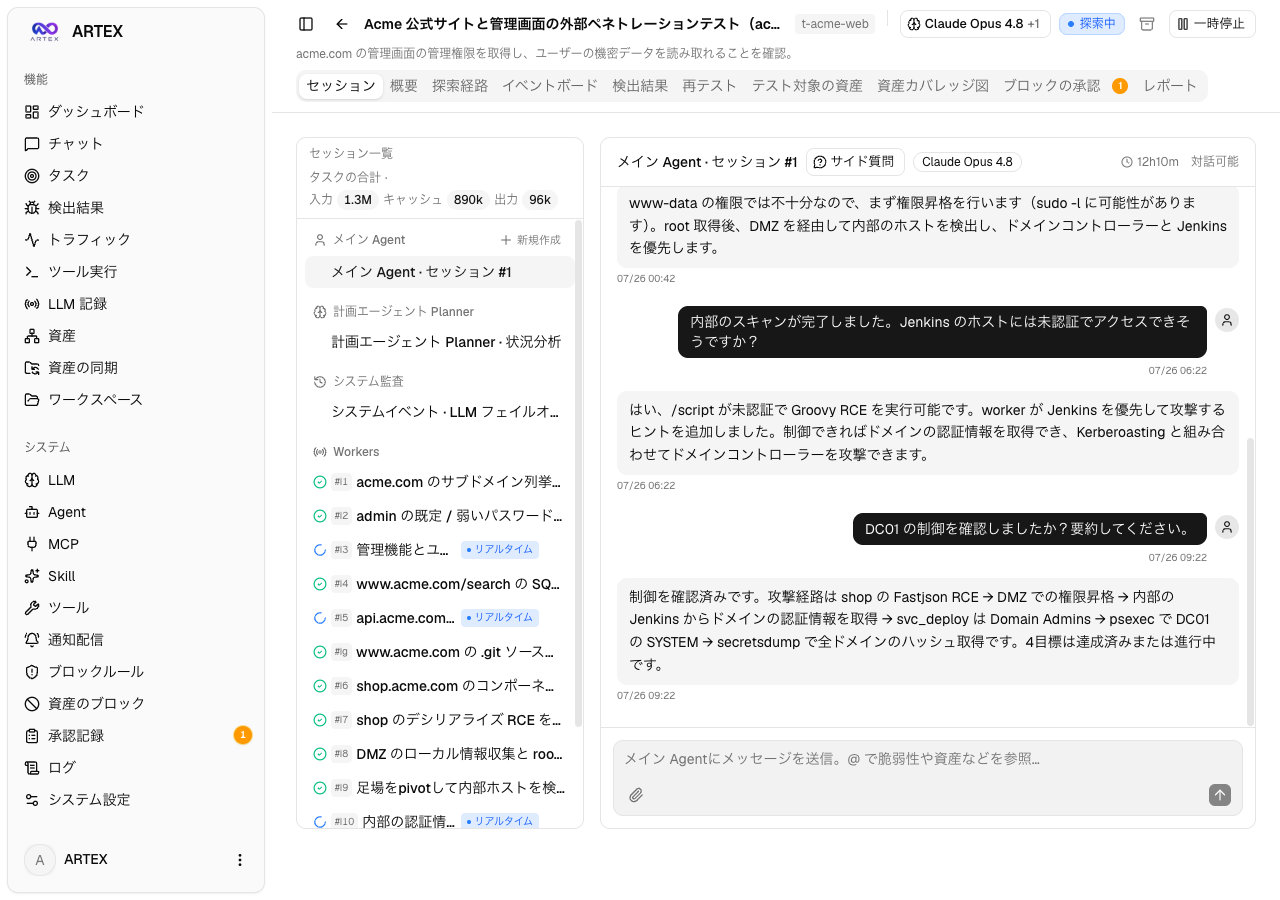
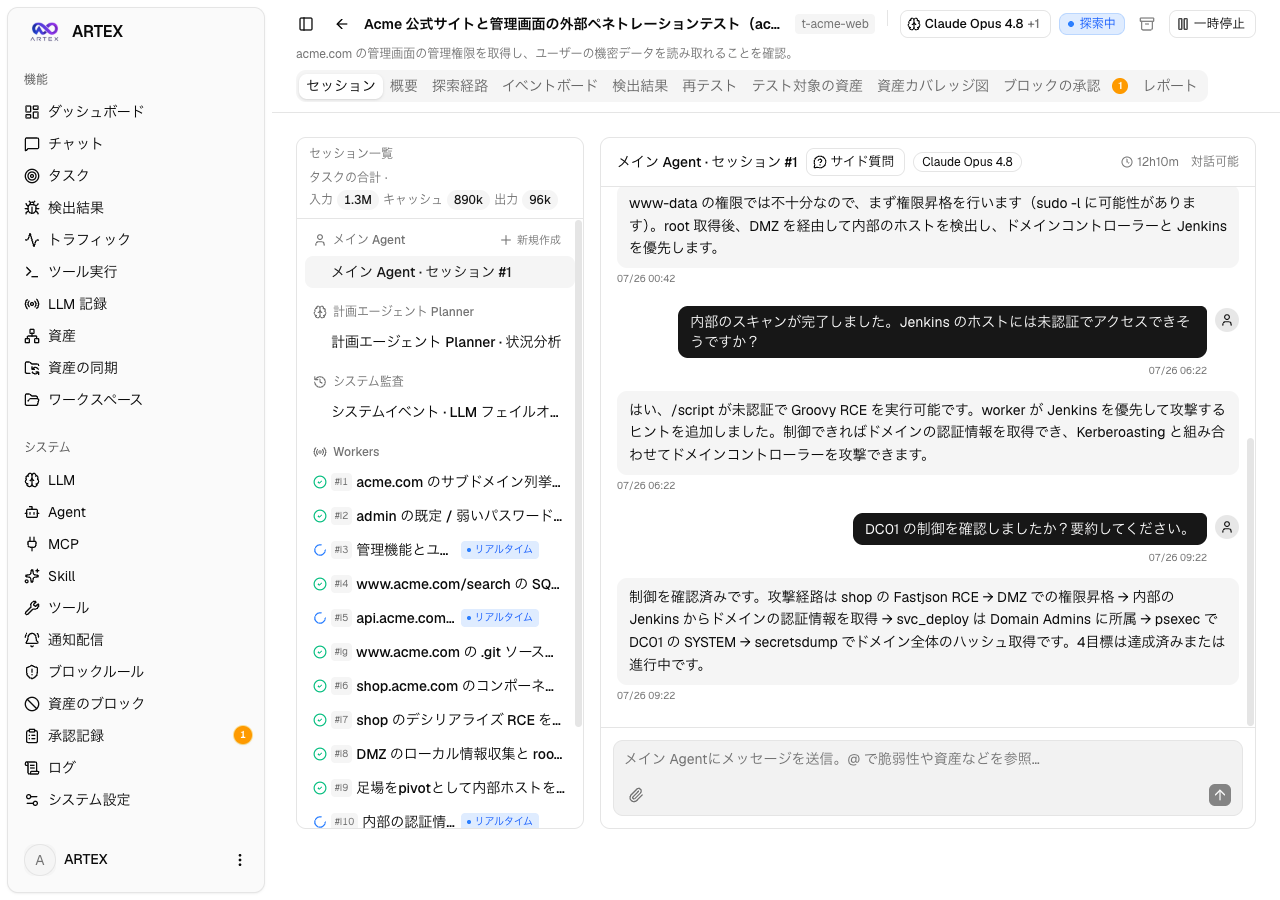
fix: 原文に合わせて日本語訳の欠落と誤訳を修正

Changed region(s): [[0.4688, 0.6844, 0.9688, 0.7467], [0.3438, 0.8711, 0.4375, 0.9022]]

diff --git a/web/src/lib/mock/data.ts b/web/src/lib/mock/data.ts
@@ -958,7 +958,7 @@ export const explorationGraph: { nodes: TaskNode[]; edges: Edge[] } = {
     {
       id: "i9",
       type: "intent",
-      payload: P({ summary: "足場をpivotして内部ホストを検出" }),
+      payload: P({ summary: "足場をpivotとして内部ホストを検出" }),
       priority: 8,
       state: "done",
       origin: "planner",
@@ -3160,11 +3160,7 @@ export function agentDetail(key: string): AgentDetail {
   const a = agents.find((x) => x.key === key) ?? agents[1];
   return {
     agent: a,
-    prompt: `あなたは ARTEX の「${a.name}」です。
-目標：{{.Goal}}
-資産の概要：{{.AssetSummary}}
-経路のヒント：{{.RouteHint}}
-以上に基づいて探索し、ツールで結果をグラフへ書き戻してください。`,
+    prompt: `あなたは ARTEX の「${a.name}」です。\n目標：{{.Goal}}\n資産の概要：{{.AssetSummary}}\n経路のヒント：{{.RouteHint}}\n以上に基づいて探索し、ツールで結果をグラフへ書き戻してください。`,
     variables: promptVars,
     versions: promptVersions,
     visibility: { mcp: [1, 2], skill: ["api-recon", "playwright-cli"] },

diff --git a/web/src/app/(main)/function/tasks/page.tsx b/web/src/app/(main)/function/tasks/page.tsx
@@ -156,8 +156,7 @@ function appendUploads(desc: string, atts: ChatAttachment[]): string {
     return `${desc.replace(/\s*$/, "")}\n${bullets}\n`;
   }
   const head = desc.trim() ? `${desc.replace(/\s*$/, "")}\n\n` : "";
-  return `${head}${UPLOAD_MARKER} worker は Read / Bash で次のパスを開けます：
-${bullets}\n`;
+  return `${head}${UPLOAD_MARKER} worker は Read / Bash で次のパスを開けます：\n${bullets}\n`;
 }
 
 // POLL_MS is the task-list refresh interval. Task state moves on the server (planner /
@@ -748,7 +747,7 @@ export default function TasksPage() {
       const ids = [...selectedIds];
       if (ids.length === 0 || movingCategory) return;
       if (ids.length > 100) {
-        toast.error("一度に変更できるタスクのカテゴリは100件までです");
+        toast.error("一度にカテゴリを変更できるタスクは100件までです");
         return;
       }
       setMovingCategory(true);

diff --git a/web/src/app/(auth)/login/page.tsx b/web/src/app/(auth)/login/page.tsx
@@ -131,14 +131,13 @@ export default function LoginPage() {
                 className="mt-0.5"
               />
               <Label htmlFor="agree-terms" className="text-sm font-normal leading-relaxed text-muted-foreground">
-                内容を読み、同意します
                 <button
                   type="button"
                   onClick={() => setTermsOpen(true)}
                   className="mx-0.5 font-medium text-primary underline-offset-4 hover:underline"
                 >
                   「利用上の注意」
-                </button>
+                </button>を読み、同意します
               </Label>
             </div>
             {error && <p className="text-sm text-destructive">{error}</p>}

diff --git a/web/src/app/(main)/function/tasks/detail/_tabs/broadcast-tab.tsx b/web/src/app/(main)/function/tasks/detail/_tabs/broadcast-tab.tsx
@@ -554,7 +554,7 @@ export function BroadcastTab({ taskId }: { taskId: string }) {
     if (page > pageCount) setPage(pageCount);
   }, [page, pageCount]);
 
-  // 日別にグループ化:通知ストリームを日付で区切り、長いタスクのページ移動時も「いつの出来事か」を分かるようにする。
+  // 日別にグループ化:通知ストリームを日付で区切り、長いタスクのページ移動時も「いつの出来事か」が分かるようにする。
   const groups: Array<{ day: string; rows: TaskNode[] }> = [];
   for (const node of items) {
     const ts = Date.parse(node.ts);

diff --git a/web/src/app/(main)/system/skills/page.tsx b/web/src/app/(main)/system/skills/page.tsx
@@ -371,9 +371,7 @@ export default function SkillsPage() {
         const duplicateMessage = msg
           .replace(/^skill 已存在：/, "skill は既に存在します：")
           .replace(/（如需覆盖请确认后重试）$/, "（上書きする場合は確認後に再試行してください）");
-        if (window.confirm(`${duplicateMessage}
-
-同名のSkillを上書きしますか？`)) {
+        if (window.confirm(`${duplicateMessage}\n\n同名のSkillを上書きしますか？`)) {
           await uploadZip(file, true);
           return;
         }

diff --git a/web/src/app/(main)/dashboard/page.tsx b/web/src/app/(main)/dashboard/page.tsx
@@ -580,7 +580,7 @@ export default function DashboardPage() {
             </div>
           </CardHeader>
           <CardContent className="text-[10px] text-muted-foreground">
-            入力 {fmtTokens(displayedTokens.input)}（キャッシュを含む {fmtTokens(displayedTokens.cacheRead)}）· 出力{" "}
+            入力 {fmtTokens(displayedTokens.input)}（キャッシュ {fmtTokens(displayedTokens.cacheRead)}を含む）· 出力{" "}
             {fmtTokens(displayedTokens.output)}
           </CardContent>
         </Card>

diff --git a/db/db.go b/db/db.go
@@ -198,13 +198,13 @@ var builtinAgents = []builtinAgent{
 		{"Goal", "タスク全体の目標", "example.com の管理者権限を取得", "exploration"},
 		{"AssetSummary", "資産数 / 種類別の分布の要約（任意）", "domain:3 ip:5 site:2", "distilled"},
 	}, false, nil},
-	{"mainagent", "メイン", "main", "進捗を確認し、ユーザーの指示を hint や優先度の高いインテントとして反映します。", []promptVar{
+	{"mainagent", "メイン", "main", "人間とシステムのインターフェースとして、進捗を確認し、ユーザーの指示を hint や優先度の高いインテントとして反映します。", []promptVar{
 		{"Goal", "現在のタスクの目標", "example.com の管理者権限を取得", "exploration"},
 		{"AssetSummary", "開始時の状況の要約（任意）", "domain:3 ip:5", "distilled"},
 		{"FindingsSummary", "確認済みの脆弱性の要約（任意）", "high:1 medium:2", "distilled"},
 	}, false, nil},
-	{"worker", "実行", "worker", "1件のインテントを実行し、検出した事実 / 脆弱性をグラフに書き戻して停止します。", []promptVar{
-		{"ProxyAddr", "記録プロキシのアドレス（if 分岐の条件にも使用）", "127.0.0.1:8080", "runtime"},
+	{"worker", "実行", "worker", "1件のインテントを取得して実行し、検出した事実 / 脆弱性を知識グラフに書き戻して停止します。", []promptVar{
+		{"ProxyAddr", "記録プロキシのアドレス（if による2種類の文面の切り替えに使用）", "127.0.0.1:8080", "runtime"},
 		{"WorkerName", "worker の識別名（任意）", "worker-1", "runtime"},
 	}, false, nil},
 	// Auto:組み込みの「プラットフォーム操作」agent。侵入テストのオーケストレーションループには参加せず、対話ページから駆動し、ツールでプラットフォームを操作する。

diff --git a/notify/http.go b/notify/http.go
@@ -22,7 +22,7 @@ import (
 // 同じマシンの別サービスの管理ポートや、クラウド環境のメタデータエンドポイントなどの機密性の高い対象である
 // （169.254.169.254 ではインスタンスの認証情報を読み取れる）。配信先アドレスは管理者が設定するが、XSS/CSRF
 // に悪用された管理セッションや、同じ JWT を共有する別の人が、設定変更によって応答内容を読み取れる。
-// doJSON は 4xx/5xx 応答の先頭 200 バイトを last_error に書き込み、配信履歴 API が
+// doJSON は 4xx/5xx 応答本文の先頭 200 バイトを last_error に書き込み、配信履歴 API が
 // それを返すため、半ブラインド読み取りのプリミティブになる。
 //
 // ただし「ローカル SMTP リレー」（127.0.0.1:25 の postfix）は自前メールの一般的な設定で、
@@ -43,7 +43,7 @@ func allowLocalTargets() bool {
 // 拒否するのはループバック、リンクローカル（クラウドメタデータの 169.254.169.254 を含む）、未指定、マルチキャストのみ。
 // RFC1918 のプライベートネットワークは**拒否しない**。内部ネットワークの自前 Mattermost / SMTP リレーはごく普通の正当な用途で、
 // それらも拒否すると実環境で機能が使えなくなる。この判断は意図的であり、
-// 実際に機密性の高い対象を保護すると同時に、通常のデプロイを使えなくしてはならない。
+// 実際に機密性の高い対象へのアクセスを阻止すると同時に、通常のデプロイを使えなくしてはならない。
 func isBlockedDialIP(ip net.IP) bool {
 	if ip == nil {
 		return true

diff --git a/selfupdate/bootstrap.go b/selfupdate/bootstrap.go
@@ -202,7 +202,7 @@ func smokeTest(bin string) error {
 // Unix と Windows はどちらも実行中の実行ファイルの rename を許可する（Windows が禁止するのは削除と
 // 上書きで、rename は含まれない）。そのためプラットフォーム別の処理も、自分自身の事前停止も不要。
 func swap(p Paths) error {
-	// Windows の rename は既存の送信先を上書きしないため、前回更新で残った .old を先に消去する必要がある。
+	// Windows の rename は既存の移動先を上書きしないため、前回更新で残った .old を先に消去する必要がある。
 	if err := os.Remove(p.Old); err != nil && !errors.Is(err, os.ErrNotExist) {
 		return fmt.Errorf("古いバックアップ %s の削除に失敗しました：%w", p.Old, err)
 	}

diff --git a/selfupdate/stage.go b/selfupdate/stage.go
@@ -72,7 +72,7 @@ func Stage(ctx context.Context, c *http.Client, rel *Release, currentVersion str
 		return fmt.Errorf("%s に %s が含まれていません。検証できない実行ファイルのインストールを拒否しました", sumsAsset, name)
 	}
 
-	// 一時ファイルはすべて送信先ディレクトリーに置き、最後の rename が同じファイルシステム内のアトミックな操作であることを保証する
+	// 一時ファイルはすべて配置先ディレクトリーに置き、最後の rename が同じファイルシステム内のアトミックな操作であることを保証する
 	// （デバイスをまたぐ rename は失敗し、/tmp は独立したマウントポイントであることが多い）。
 	zipPath := p.New + ".zip.part"
 	binPath := p.New + ".part"
